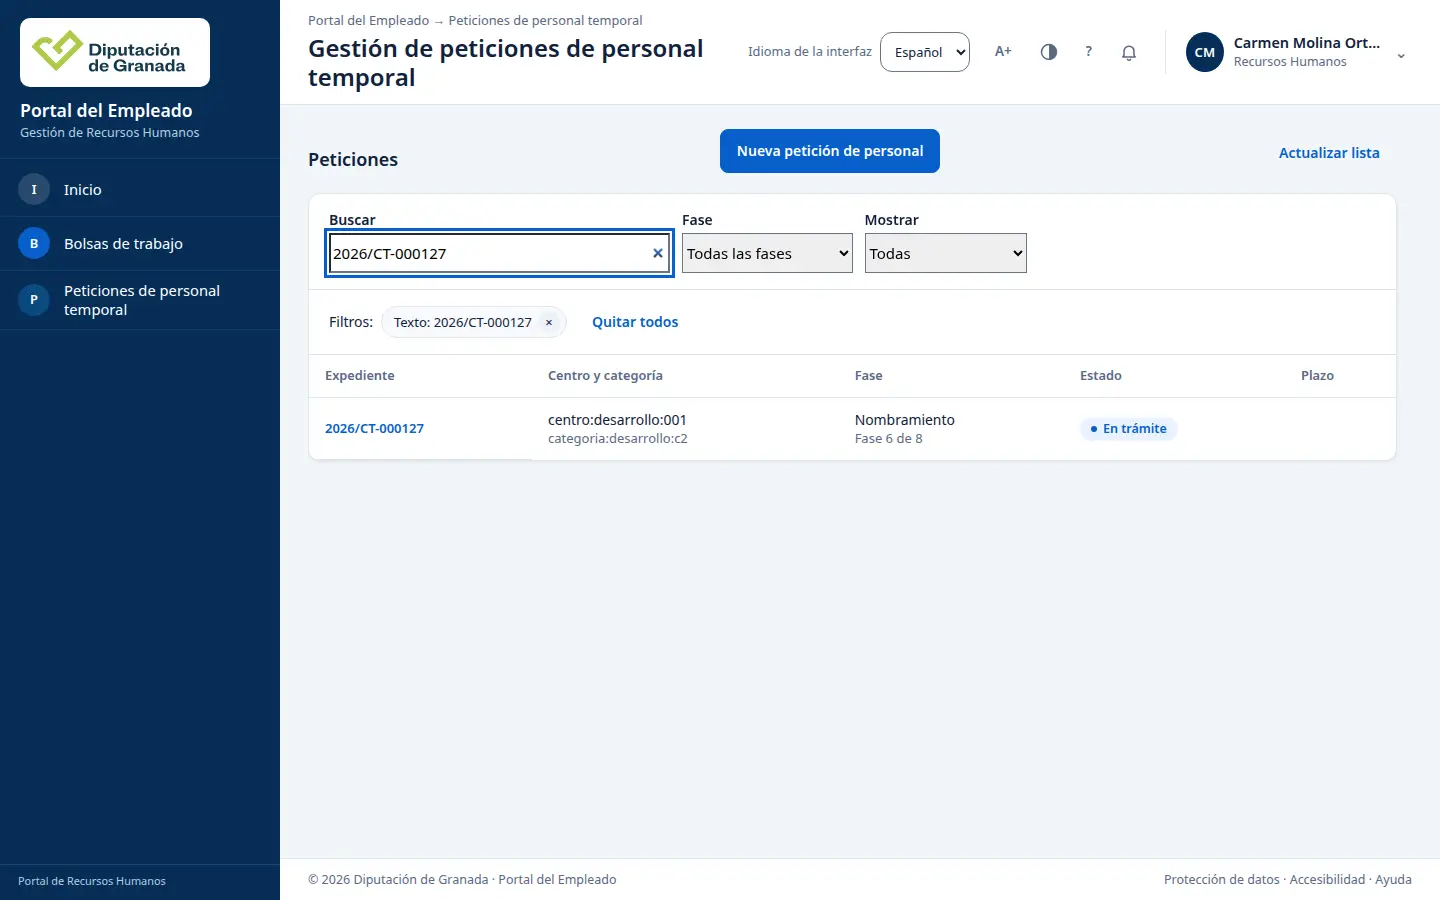
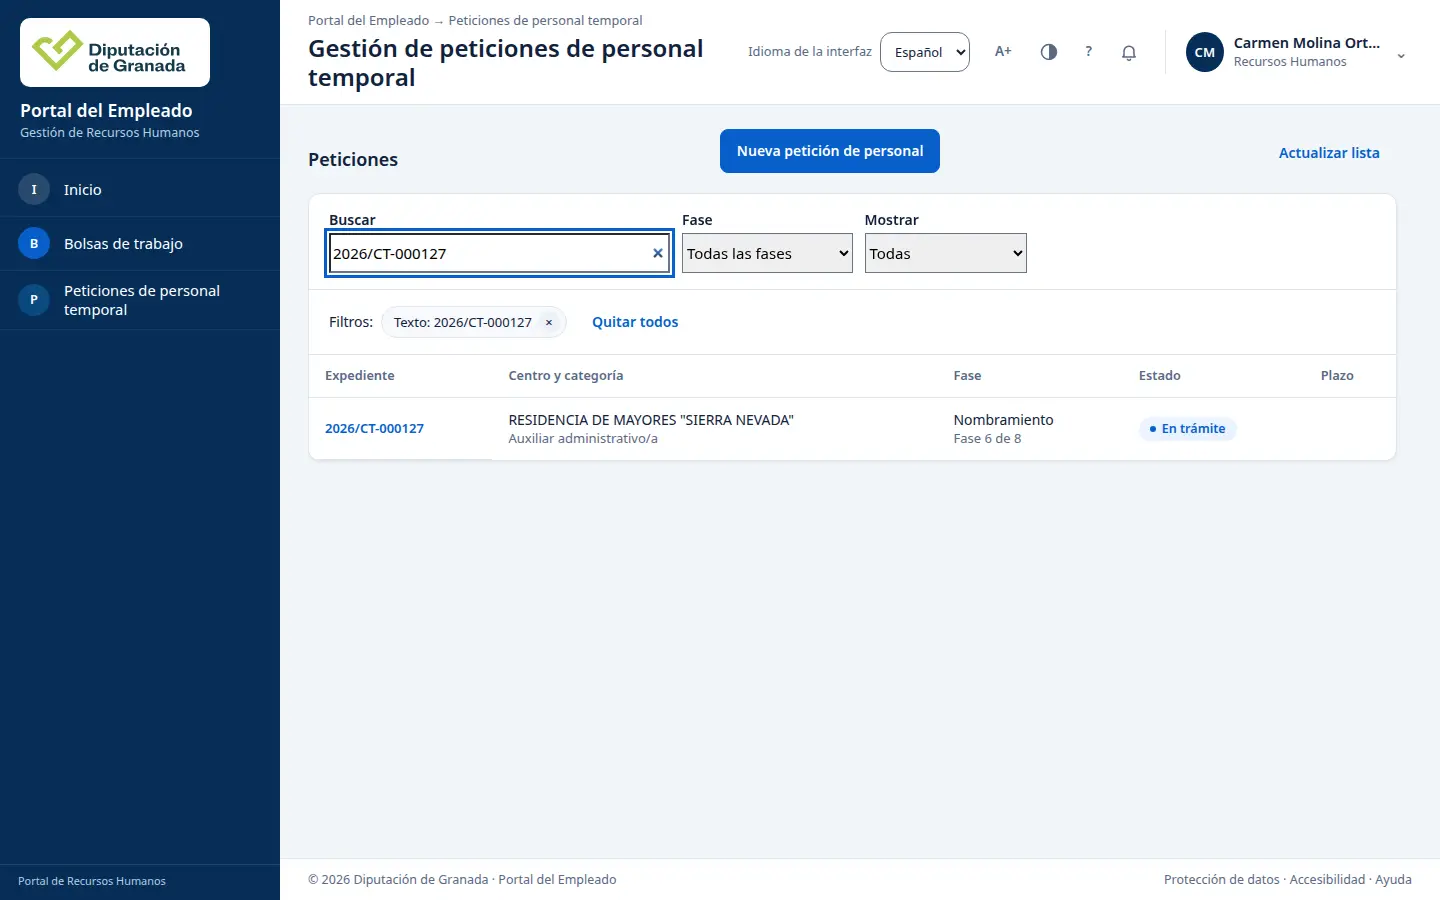
docs: actualizar guía RRHH para documentos HZ9

diff --git a/docs/manuales/responsable_rrhh.md b/docs/manuales/responsable_rrhh.md
@@ -1,6 +1,6 @@
 # Consultar una petición y sus borradores desde RRHH
 
-Esta guía recoge las consultas comprobadas el 8 de octubre de 2026 en el Portal del Empleado, con acceso de RRHH y un expediente de ensayo. Sirve para encontrar la ficha, revisar el análisis y descargar los borradores que estuvieron disponibles. Los documentos descargados en este recorrido indican que son preparatorios y que no están firmados.
+Esta guía recoge las consultas comprobadas el 8 de octubre de 2026 en el Portal del Empleado, con acceso de RRHH y un expediente de ensayo. Sirve para encontrar la ficha, revisar el análisis y descargar borradores. Los archivos descargados indican que son preparatorios y que no están firmados.
 
 Con el acceso de RRHH comprobado, la consulta de documentos se hace en la misma ficha. No se ha comprobado una pantalla separada para quien resuelve y firma.
 
@@ -24,14 +24,14 @@ En **Datos de la petición**, pulse **Ver todos los datos**. Revise la modalidad
 
 ## Descargar un borrador
 
-Baje dentro de la misma ficha hasta **Documentos preparatorios disponibles**. Para el informe, pulse **Descargar informe · documento preparatorio** si necesita PDF, o **Descargar informe Word · documento preparatorio** si necesita Word. En este recorrido, ambos archivos se descargaron. También se descargó **Descargar resolución Word · documento preparatorio**.
+Baje hasta el panel **Documentos**, dentro de la misma ficha. En **Documentos preparatorios disponibles**, busque la tarjeta **Informe** y pulse **Descargar PDF** o **Descargar Word**. La tarjeta **Resolución** ofrece los mismos dos botones. En el recorrido comprobado se descargaron los cuatro archivos.
 
-![Controles de descarga y mensaje tras descargar el informe](img/rrhh-documentos-04-descarga.webp)
+![Tarjetas de informe y resolución con los botones de descarga y el mensaje de confirmación](img/rrhh-documentos-04-descarga.webp)
 
-El navegador guardará el archivo según su configuración. La ficha muestra «Descarga del documento preparatorio iniciada. Sin firma ni nombramiento eficaz». Compruebe el archivo descargado antes de usarlo como borrador. El título «Informe definitivo» del PDF de ejemplo no significa que esté firmado: el propio documento indica que es un borrador de desarrollo, sin firma ni validación.
+El navegador guardará el archivo según su configuración. La ficha muestra «Descarga del documento preparatorio iniciada. Sin firma ni nombramiento eficaz». Compruebe el archivo descargado antes de usarlo como borrador. El PDF de resolución del ejemplo dice que es un borrador de desarrollo, sin firma ni validación. El Word se descargó como archivo; no se comprobó un visor Word dentro del portal.
 
 ## Si algo sale mal
 
-Si al descargar una resolución en PDF aparece «No dispone de acceso para descargar el documento preparatorio. El detalle se conserva», mantenga la referencia del expediente y comunique el mensaje a Informática por el cauce habitual. En el expediente de ensayo, el Word de esa resolución sí se descargó. No interprete la descarga de Word como permiso para firmar o resolver.
+Si al pulsar **Descargar PDF** en **Resolución** aparece «No dispone de acceso para descargar el documento preparatorio. El detalle se conserva», la descarga no se ha completado. Conserve la referencia del expediente y comunique el mensaje a Informática por el cauce habitual. Ese mensaje apareció en una visita anterior; en otra visita se descargaron el PDF y el Word de la misma resolución. No se ha determinado la causa de la diferencia.
 
 Use **Volver a la lista** para regresar a las peticiones. Si necesita recuperar la ficha tras actualizar la página, busque de nuevo su referencia; en el recorrido comprobado, la actualización volvió a la lista.
